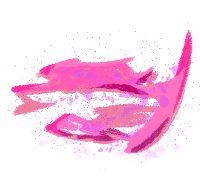
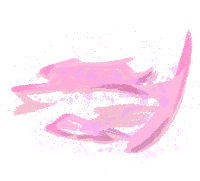
effect 투명화

Changed region(s): [[0.06, 0.1657, 0.96, 0.8564]]

diff --git a/effect.py b/effect.py
@@ -12,11 +12,11 @@ RUN_SPEED_PPS = (RUN_SPEED_MPS * PIXEL_PER_METER)
 class SmallEffect:
 
     def __init__(self, x = 400, y = 300):
-        self.x, self.y, self.size = x, y, 0
+        self.x, self.y, self.size = x + 150, y, 18
         self.image = load_image('effect_snow.png')
 
     def get_bb(self):
-        return self.x - 10 * self.size, self.y - 20 * self.size, self.x + 10 * self.size, self.y + 20 * self.size
+        return self.x - 10 * self.size, 0, self.x + 10 * self.size, self.y + 20 * self.size
 
     def draw(self):
         self.image.clip_composite_draw(0, 0, 200, 181, 0, 'h', self.x, self.y, 20 * int(self.size), 10 * int(self.size))
@@ -25,10 +25,7 @@ class SmallEffect:
     def update(self):
         self.x += 5 * RUN_SPEED_PPS * game_framework.frame_time
 
-        if self.x >= 450:
-            self.size -= RUN_SPEED_PPS * game_framework.frame_time / 5
-        else:
-            self.size += RUN_SPEED_PPS * game_framework.frame_time / 5
+        self.size -= RUN_SPEED_PPS * game_framework.frame_time / 2
         if self.size < 0:
             self.size = 0
             game_world.remove_object(self)
@@ -40,15 +37,15 @@ class SmallEffect:
 
 class BigEffect:
     def __init__(self, x = 400, y = 300):
-        self.x, self.y, self.size = x, y, 0
+        self.x, self.y, self.size = x + 200, y, 20
         self.image = load_image('effect_snow.png')
 
     def get_bb(self):
-        return self.x - 10 * self.size, self.y - 20 * self.size, self.x + 10 * self.size, 600
+        return self.x - 10 * self.size, 0, self.x + 10 * self.size, 600
 
     def draw(self):
         self.image.clip_composite_draw(0, 0, 200, 181, 0, 'h', self.x, self.y, 20 * int(self.size), 10 * int(self.size))
-        #draw_rectangle(*self.get_bb())
+        draw_rectangle(*self.get_bb())
 
     def update(self):
         self.x += 5 * RUN_SPEED_PPS * game_framework.frame_time
@@ -57,10 +54,7 @@ class BigEffect:
         if self.y < 160:
             self.y = 160
 
-        if self.x >= 500:
-            self.size -= RUN_SPEED_PPS * game_framework.frame_time / 5
-        else:
-            self.size += RUN_SPEED_PPS * game_framework.frame_time / 5
+        self.size -= RUN_SPEED_PPS * game_framework.frame_time / 2
         if self.size < 0:
             self.size = 0
             game_world.remove_object(self)
